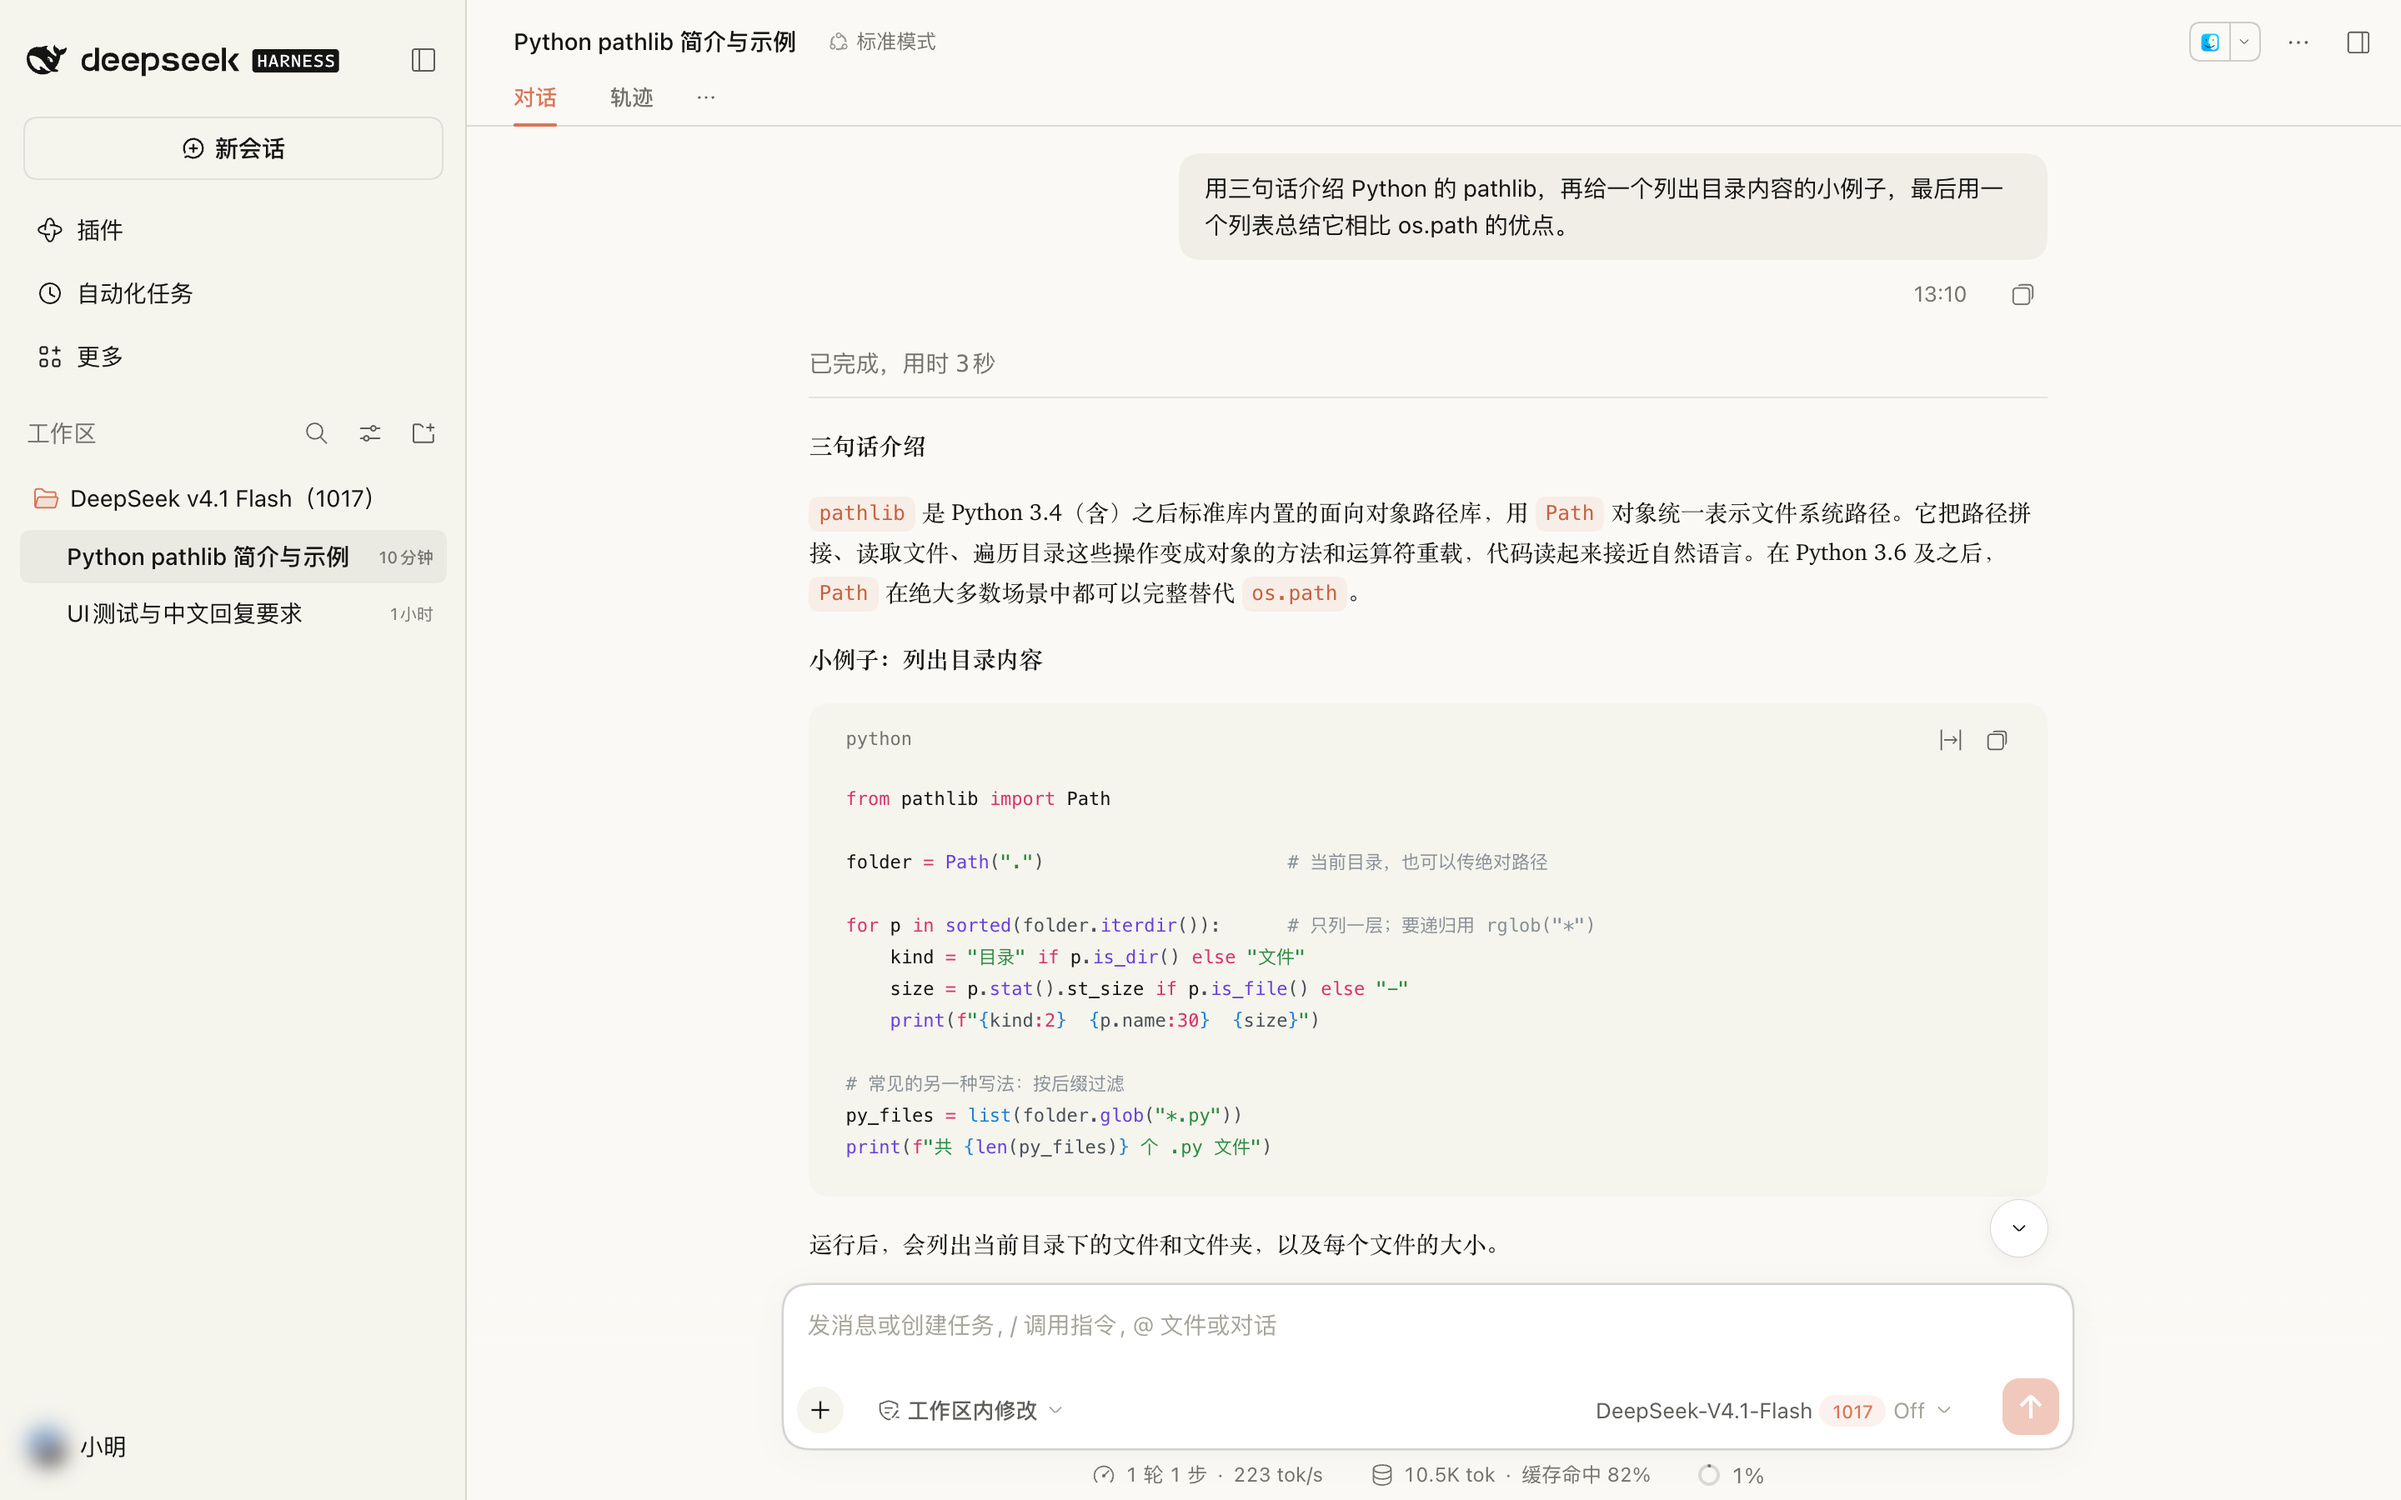
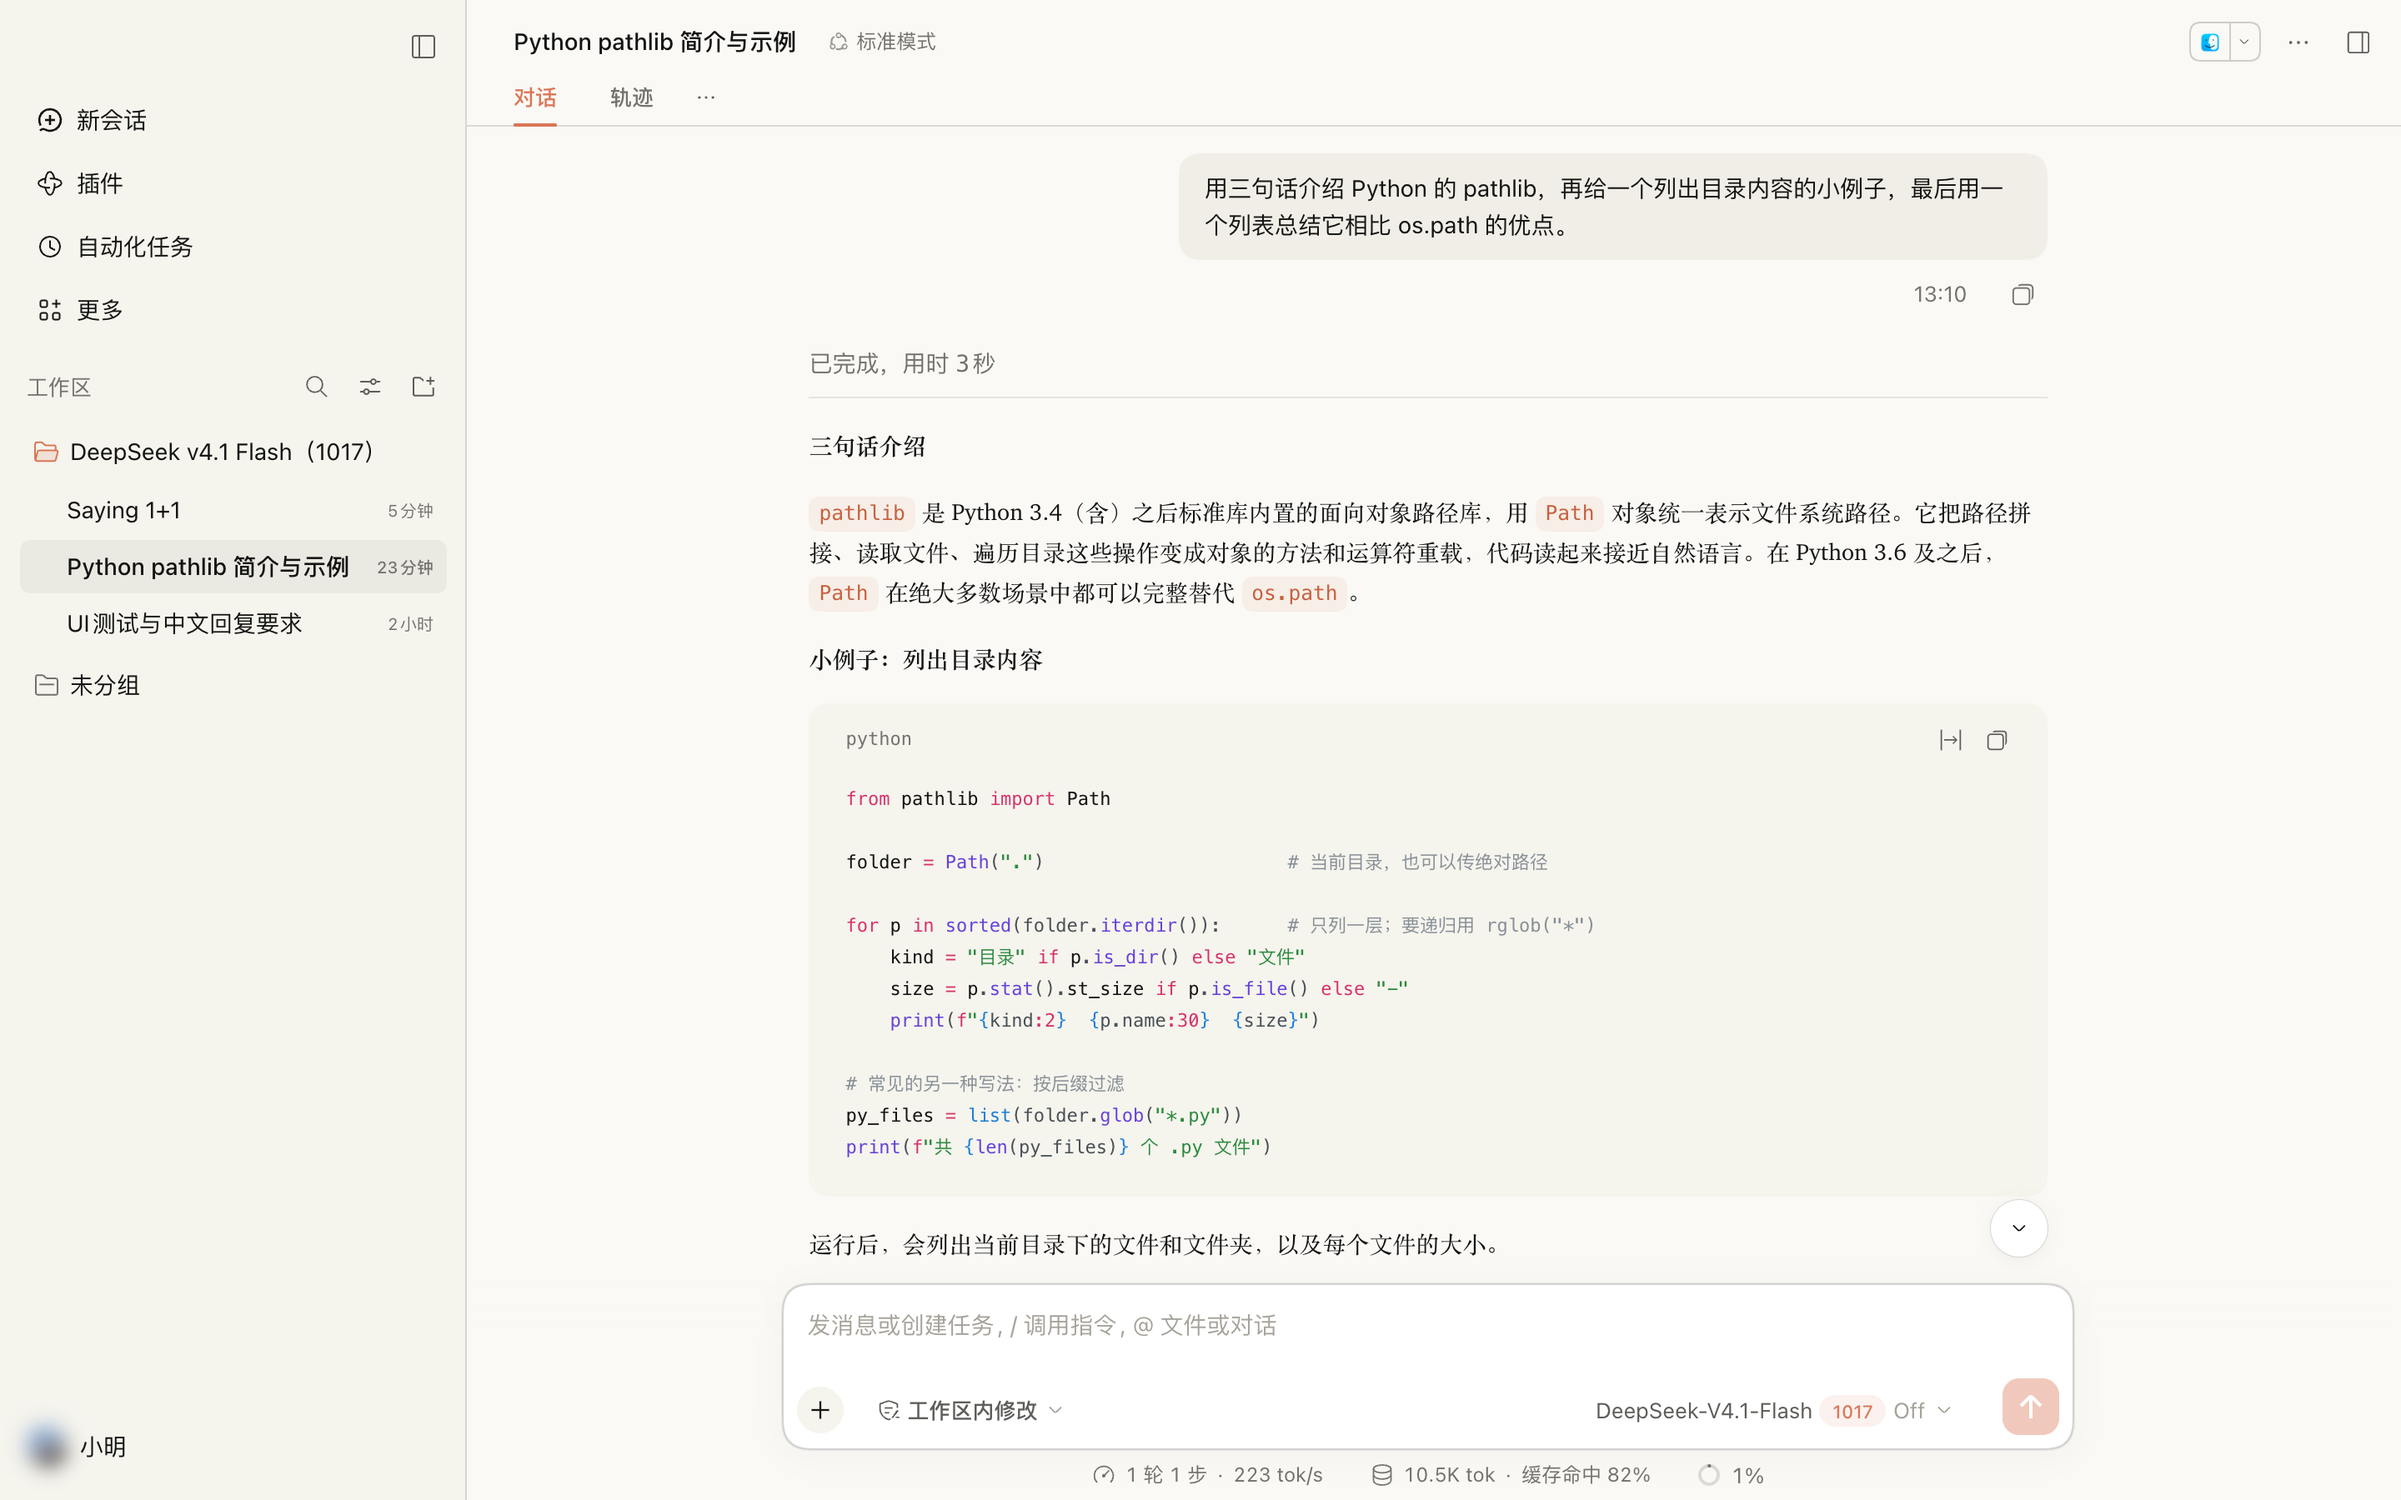
侧栏去掉 DeepSeek Harness 标志，新会话改为 Claude 式列表行

diff --git a/lib/client.js b/lib/client.js
@@ -179,15 +179,31 @@ body {
 
 /* Sidebar: no hard divider, quiet new-chat button, rounded rows */
 [data-slot=sidebar] > [class*="_root"] { border-right: none; }
-[data-slot=sidebar] button:is([class$="_newSession"], [class*="_newSession "]) {
-	border-radius: 10px;
+/* No product logo up top, like Claude: drop the brand, and the row if nothing else is left in it */
+[data-slot=sidebar] :is([class$="_brand"], [class*="_brand "]) { display: none; }
+[data-slot=sidebar] [class*="_logoRow"]:not(:has([class*="_toggle"])) { display: none; }
+[data-slot=sidebar] [class*="_root"]:not([class*="_collapsed"]) > [class*="_logoRow"] { height: 44px; }
+[data-slot=sidebar] [class*="_root"] [class*="_toggle"] [class*="_railMark"] { display: none; }
+[data-slot=sidebar] [class*="_root"] [class*="_toggle"] [class*="_panelIcon"] { display: inline; }
+/* New chat reads as the first plain row of the list, not a framed button */
+[data-slot=sidebar] [class*="_root"]:not([class*="_collapsed"]) > button:is([class$="_newSession"], [class*="_newSession "]) {
+	justify-content: flex-start;
+	height: 36px;
+	margin: 0 2px 2px;
+	padding: 7px 8px;
+	border: none;
+	border-radius: 8px;
 	box-shadow: none;
-	border: 1px solid var(--dsw-alias-border-l2);
 	background: transparent;
+	font-weight: 400;
 }
 [data-slot=sidebar] button:is([class$="_newSession"], [class*="_newSession "]):hover {
 	background: var(--dsw-alias-interactive-bg-hover);
 }
+[data-slot=sidebar] [class*="_root"]:not([class*="_collapsed"]) [class*="_newSessionContent"] { justify-content: flex-start; gap: 8px; }
+[data-slot=sidebar] [class*="_newSessionContent"] > svg { width: 16px; height: 16px; }
+/* Section headers: small and quiet */
+[data-slot=sidebar] [class*="_sectionLabel"] { font-size: 13px; color: var(--dsw-alias-label-tertiary); }
 [data-slot=sidebar] :is([class*="_panelRow"], [class*="_sessionRow"]) { border-radius: 8px; }
 [data-slot=sidebar] [class*="_sessionRow"][class*="_selected"] { font-weight: 500; }
 

diff --git a/README.md b/README.md
@@ -17,7 +17,7 @@
 </details>
 
 - **配色**：暖灰底色配陶土橙（`#D97757`），浅色 / 深色跟随系统
-- **布局**：衬线体正文、橙色行内代码、圆角用户气泡、悬浮输入框、更素净的侧栏
+- **布局**：衬线体正文、橙色行内代码、圆角用户气泡、悬浮输入框；侧栏去掉 DeepSeek Harness 标志，「新会话」改成普通列表行
 - **欢迎语**：新会话标题换成按时段变化的问候，如「早安，小明」「周三快乐，小明」，名字取自登录的 DeepSeek 账号；鲸鱼保留，输入框右上角还趴着一只像素小鲸鱼：会眨眼、偶尔喷水，你打字时它摆尾巴，发送时跳一下，深夜会睡着（系统开启「减少动态效果」时静止）
 - **插件市场**：同时装了 [dshmarket](https://github.com/dsh-market/dsh-market) 时，自动在侧栏打开「插件市场」入口（你手动关掉过就不再打开）
 
